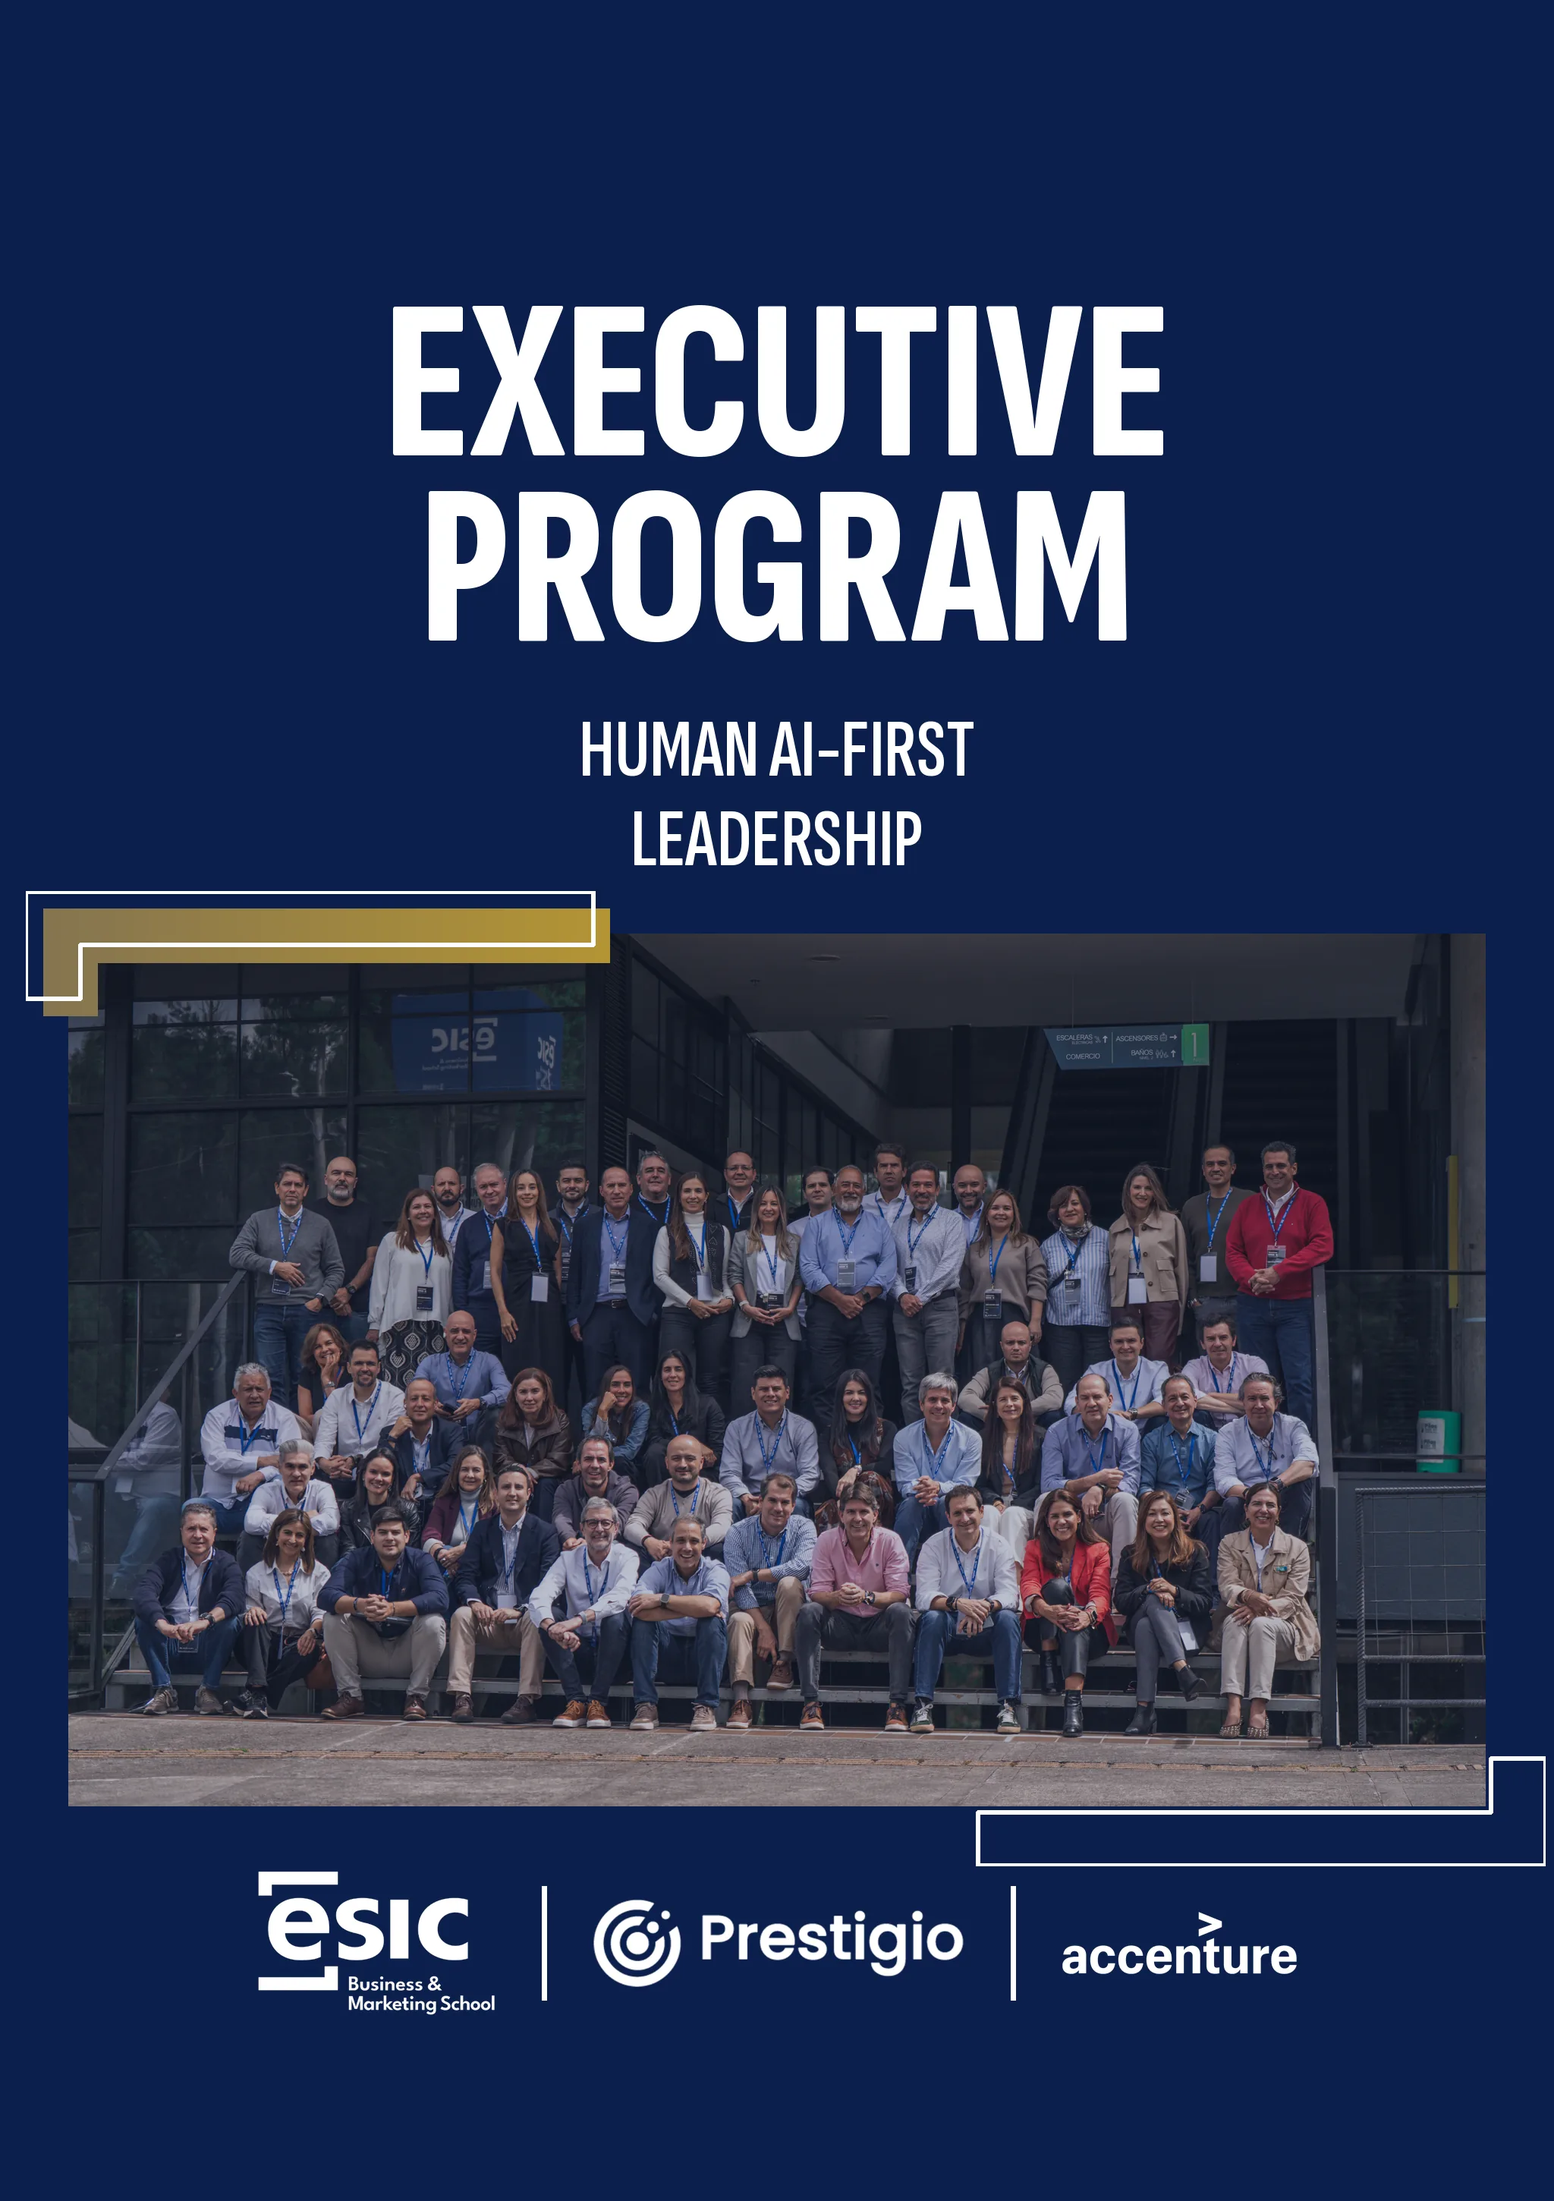
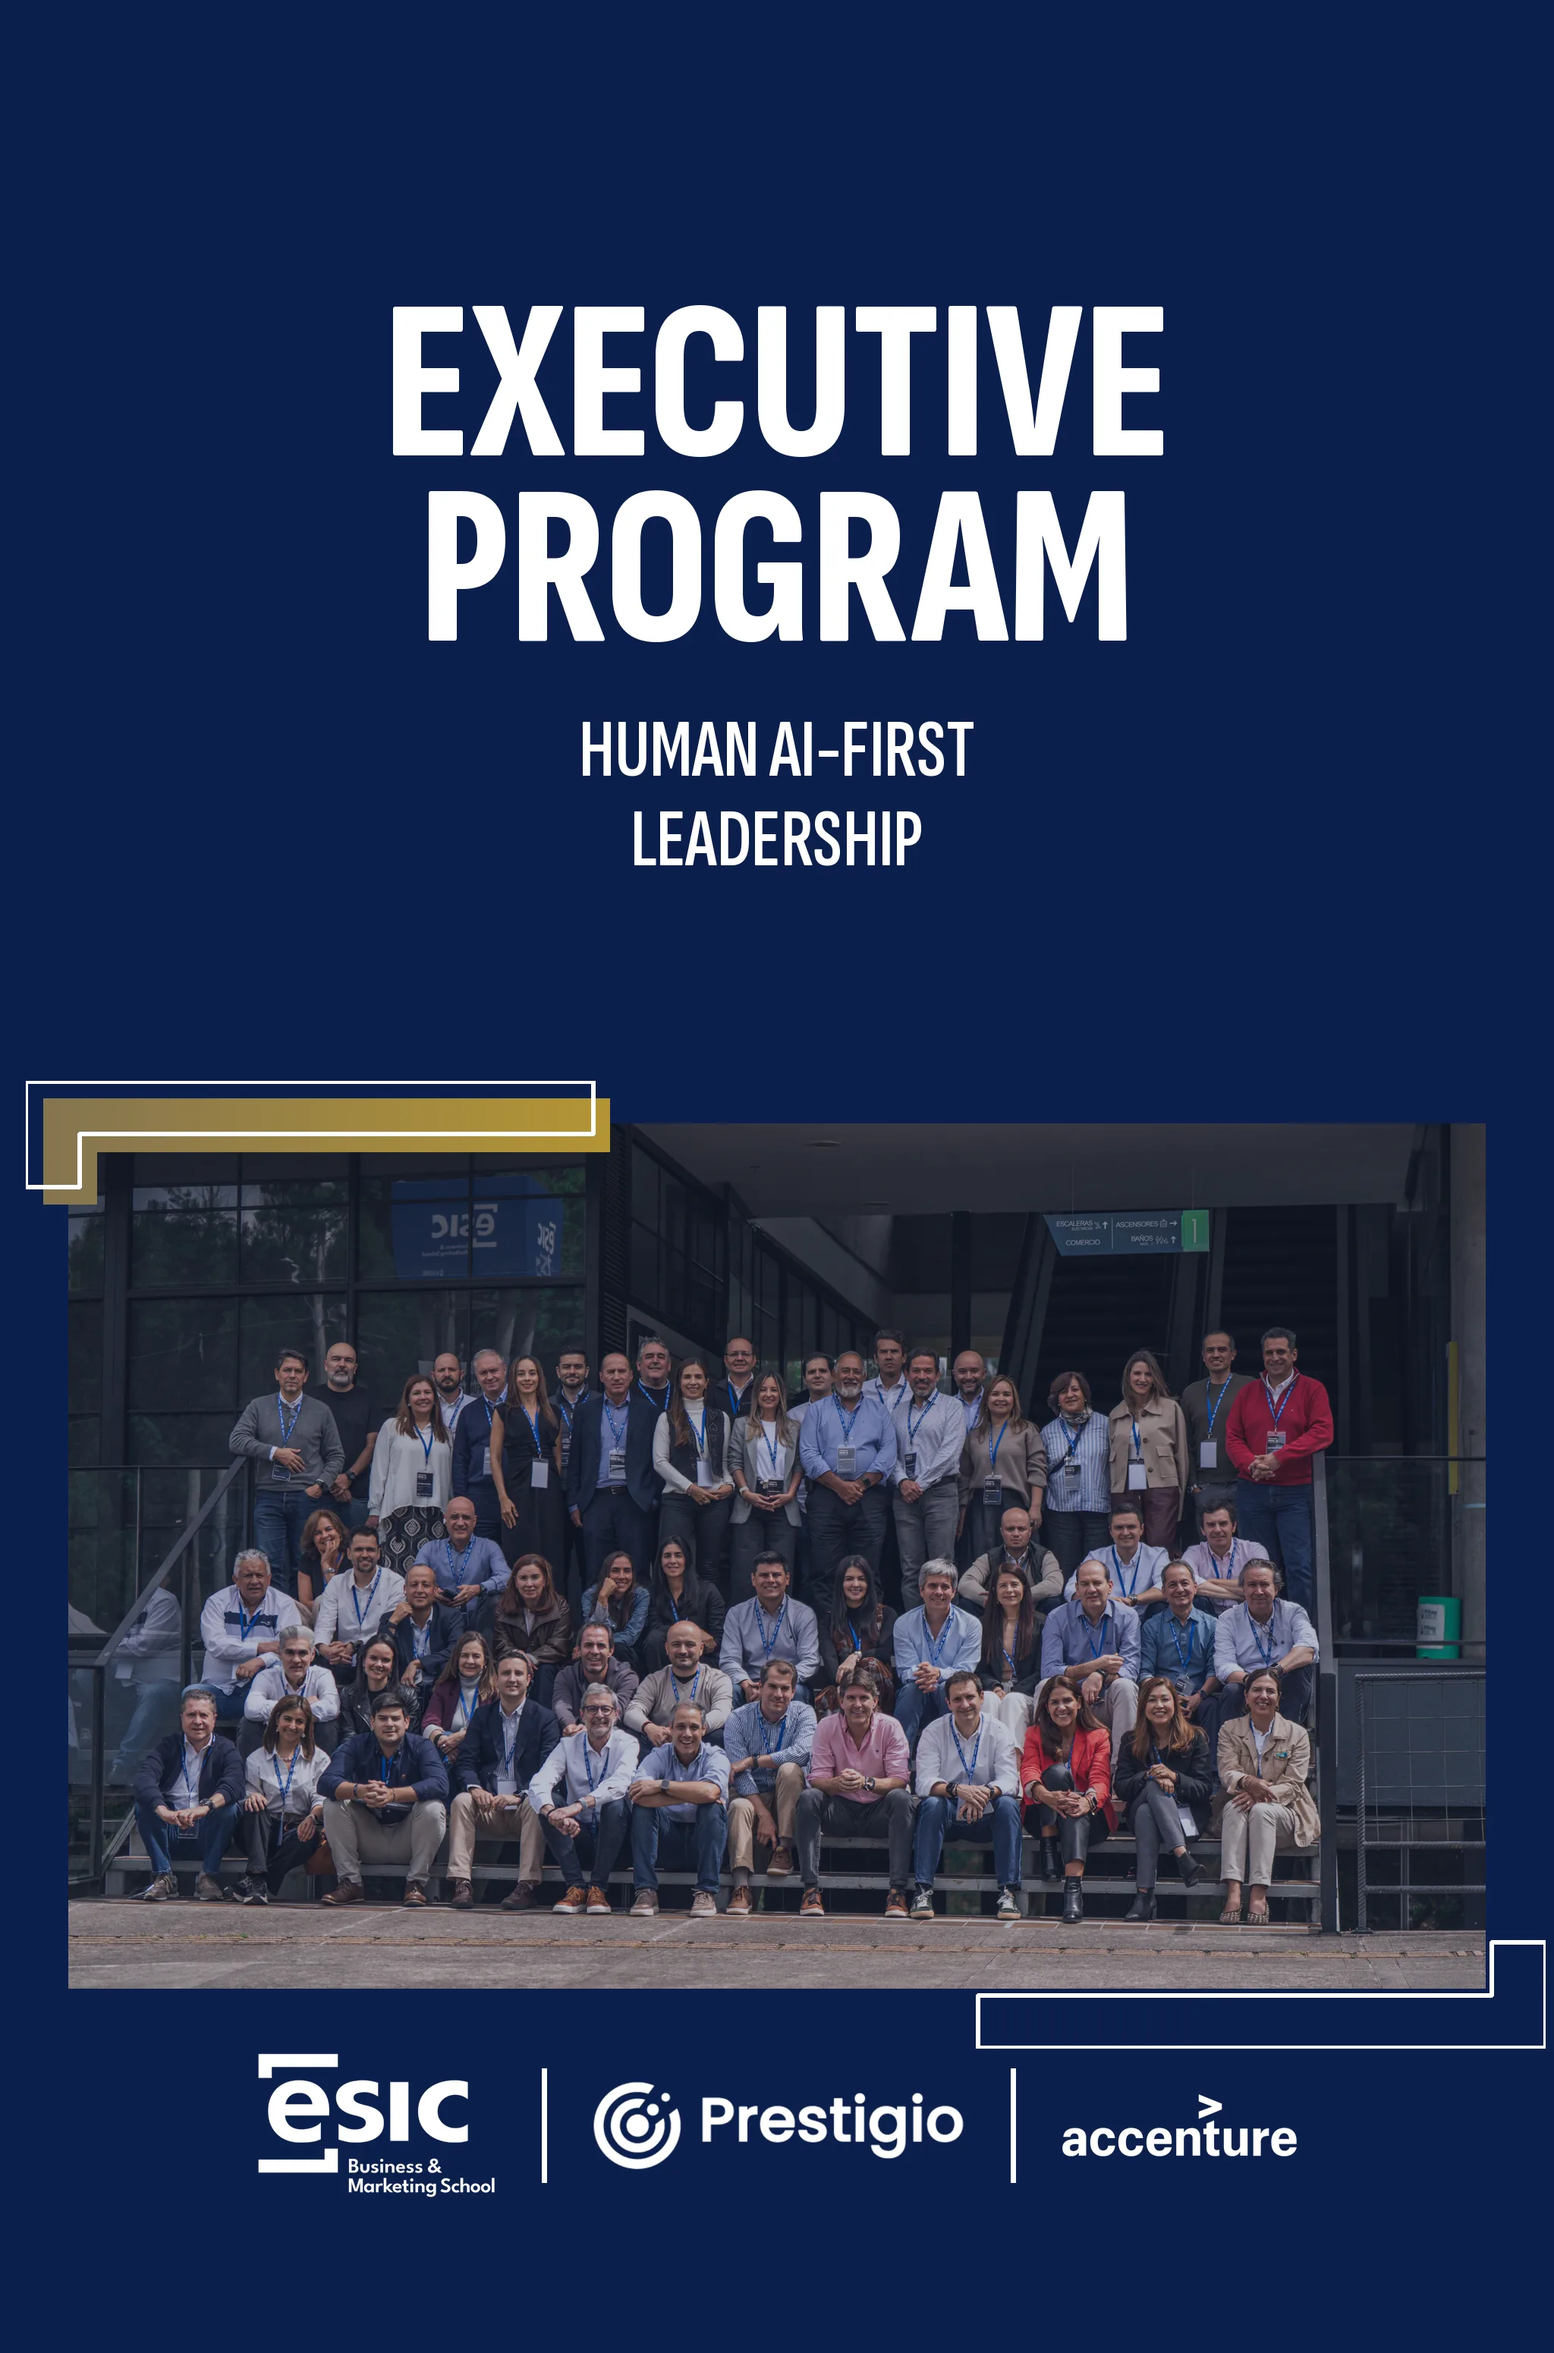
feat(executive): CTA 'Inscribete ahora' en el hero, en el dorado del programa
- El banner deja libre una banda entre el subtitulo y los logos (titular de 230
  a 200px en desktop; lienzo mobile de 2900 a 3100px de alto) y ahi se posiciona
  el CTA.
- El boton va en HTML, no dibujado en la imagen: es un enlace real (accesible,
  editable sin regenerar el banner) posicionado en porcentaje sobre el banner,
  asi que acompana el escalado en cualquier ancho.
- Dorado #C09C2E, el mismo de la metodologia y los corchetes, con texto azul
  oscuro: sobre dorado el blanco no da contraste suficiente.
- Alineado al borde izquierdo de los logos en desktop y centrado en mobile.

diff --git a/design/executive-banner/build_banner.py b/design/executive-banner/build_banner.py
@@ -201,21 +201,22 @@ def draw_right(text, font, y, fill=WHITE, tracking=0):
 HEAD_WEIGHT = os.environ.get("HEAD_WEIGHT")  # p.ej. "ExtraBold" en Sofia Sans
 SUB_WEIGHT = os.environ.get("SUB_WEIGHT")
 
-f_head = fit("", FONT_BOLD, 230, HEAD_WEIGHT)
+f_head = fit("", FONT_BOLD, 200, HEAD_WEIGHT)
 f_sub = fit("", FONT_LIGHT, 86, SUB_WEIGHT)
 
 # Solo titular + subtitulo. Sin la linea de claims (meses / Madrid / año).
-TOP = 270
+TOP = 250
 draw_right("EXECUTIVE", f_head, TOP)
 # Singular: es UN programa (Digital Business Transformation), no la oferta
 # completa de executive programs.
-draw_right("PROGRAM", f_head, TOP + 186)
-draw_right("HUMAN AI-FIRST LEADERSHIP", f_sub, TOP + 186 + 270)
+draw_right("PROGRAM", f_head, TOP + 162)
+draw_right("HUMAN AI-FIRST LEADERSHIP", f_sub, TOP + 397)
 
 # --------------------------------------------------------------------- logos
 # Holgura abajo: la barra de stats de la pagina monta sobre el borde inferior
 # del banner, asi que los logos no pueden quedar pegados al filo.
-LOGO_Y = 870
+# Banda libre 740-860 entre el subtitulo y los logos: ahi va el CTA en HTML.
+LOGO_Y = 890
 LOGO_H = 140
 
 
@@ -263,13 +264,13 @@ print(f"OK -> {OUT}  {canvas.size}")
 # ============================================================ version mobile
 # Mismo lenguaje visual en vertical (2048x2900, el ratio del banner mobile
 # actual de Digital Business): titular arriba, foto abajo, logos al pie.
-MW, MH = 2048, 2900
+MW, MH = 2048, 3100
 m = Image.new("RGB", (MW, MH), NAVY)
 md = ImageDraw.Draw(m)
 
 # La foto de grupo es muy ancha: en vertical va como banda a todo el ancho
 # (menos un margen), no como panel estrecho, o se perdería medio grupo.
-MP_X, MP_Y, MP_W, MP_H = 90, 1230, MW - 180, 1150
+MP_X, MP_Y, MP_W, MP_H = 90, 1480, MW - 180, 1140
 
 
 def draw_center(d, text, font, y, cx, fill=WHITE, tracking=0):
@@ -340,7 +341,7 @@ _widths = [load_logo(os.path.join(HERE, n), h).width for n, h in MOBILE_LOGOS]
 row_w = sum(_widths) + (len(_widths) - 1) * (6 + 2 * MPAD)
 # 2490 y no 2660: la barra blanca de stats monta sobre el borde inferior del
 # banner y los logos quedaban casi pegados a ella en mobile.
-draw_logo_row(m, md, MOBILE_LOGOS, CX - row_w // 2, 2560, MPAD, MSEP_H)
+draw_logo_row(m, md, MOBILE_LOGOS, CX - row_w // 2, 2800, MPAD, MSEP_H)
 
 OUT_M = os.path.join(HERE, "banner-executive-human-ai-first-leadership-mobile.png")
 m.save(OUT_M, quality=95)
